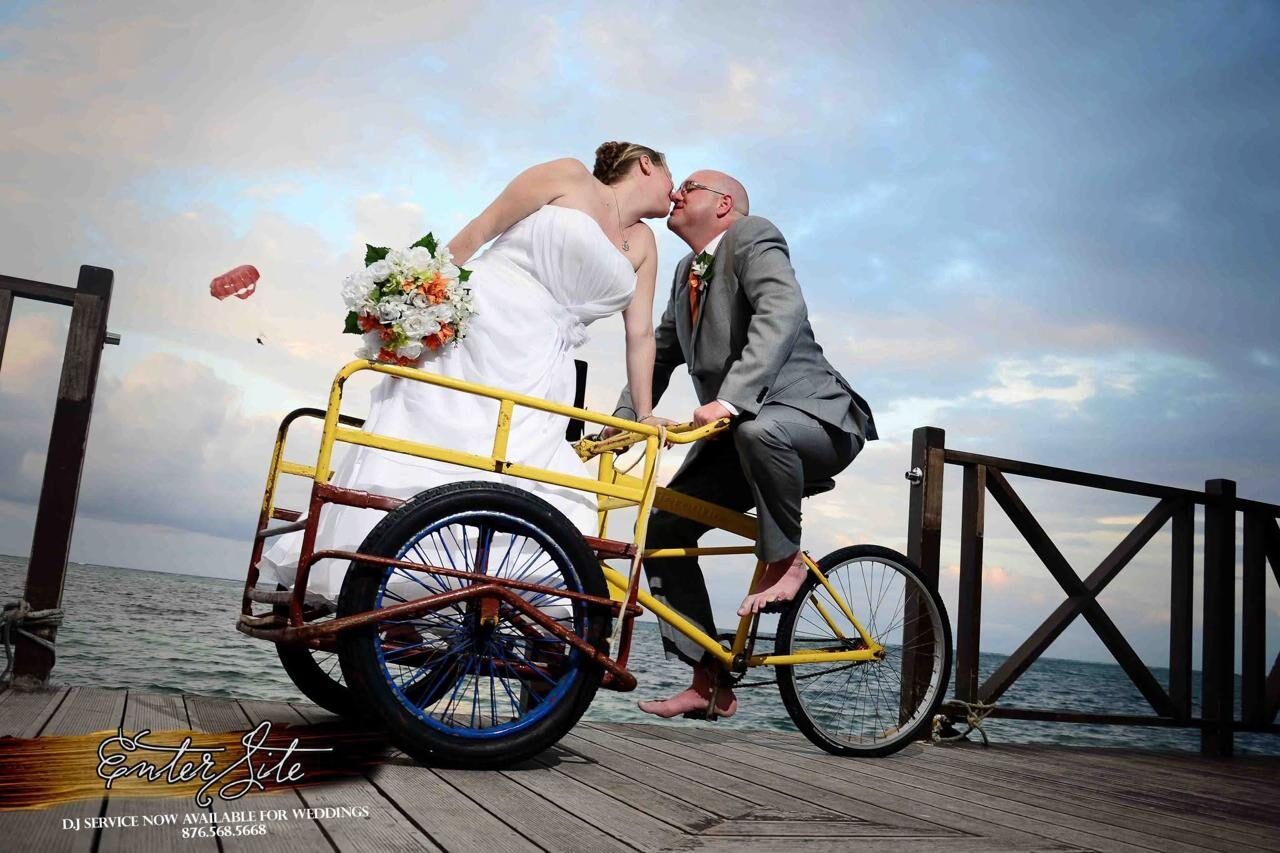
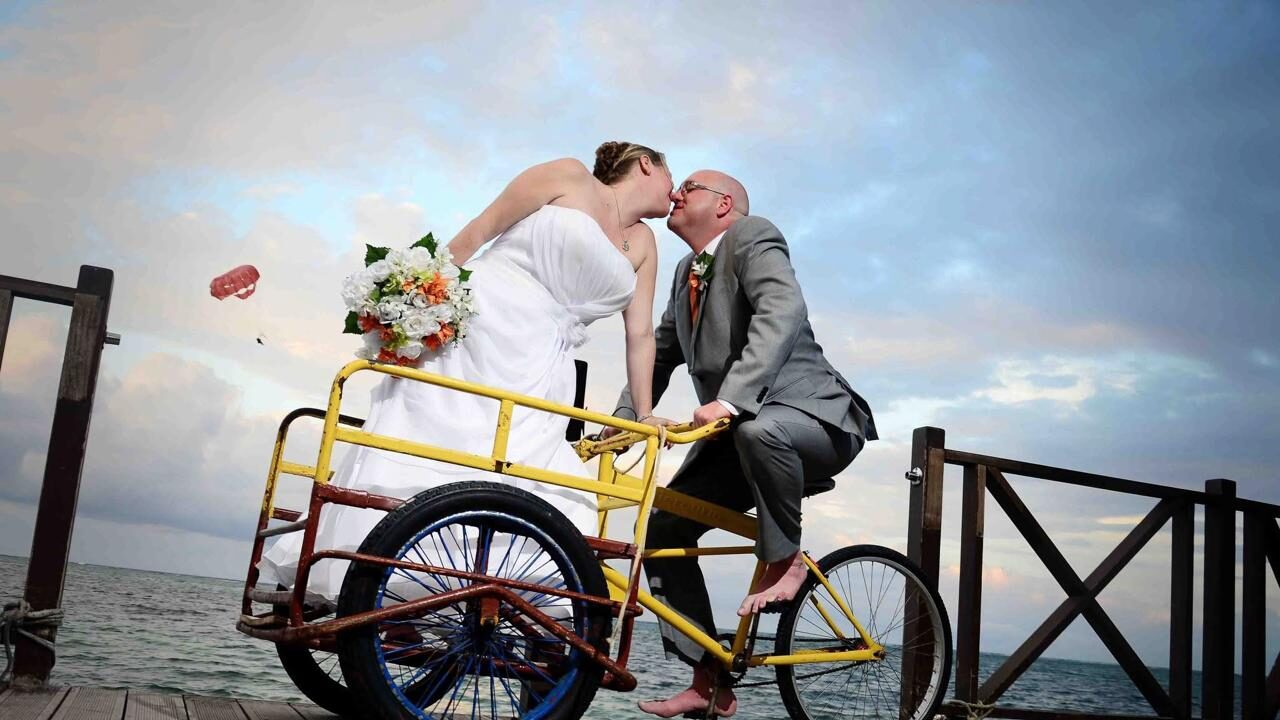
Add the last two photos, apply the photo review and halve gallery downloads
Photos: a black-and-white cane-field fashion shoot (Photo Sessions)
and a full-length three-piece-suit portrait (Portraits).

Photo review of all 86 gallery photos, each flag re-checked:
- wedding-16: crop to 16:9 to remove an EnterSite DJ advert that
  showed the old 568-5668 number
- couple-01 and session-07: correct the descriptions
- portrait-01 and portrait-05: move to Photo Sessions (kids' studio
  shoot and outdoor lifestyle session, not headshots or products)
Rows re-planned so every gallery still fills the full width.

Gallery tiles now start on the small copy and switch to the full
photo only when a tile needs more pixels, never back down. Letting
the browser re-pick from srcset each time rows were re-planned made
it restart in-flight downloads, so most photos downloaded twice.
A full scroll of the Galleries page drops from 7.4-9.1 MB to 4.3 MB.
The home page's featured grid keeps srcset (its layout is fixed).

Claude-Session: https://claude.ai/code/session_017cKbU4iBAnkGR7F8S12W2Q

diff --git a/candid-expression/js/content.js b/candid-expression/js/content.js
@@ -154,29 +154,31 @@ window.GALLERIES = {
     { src: "images/gallery/maternity-03.jpg", alt: "Expectant mother holding a tiny pair of white knitted baby booties" },
     { src: "images/gallery/family-07.jpg", alt: "Mother and her daughters in matching red Christmas pyjamas playing with a snowman ornament beside a flocked Christmas tree" },
     { src: "images/gallery/session-03.jpg", alt: "Woman in a pink pleated skirt standing on a rooftop rope swing at sunset", wide: true },
-    { src: "images/gallery/baby-03.jpg", alt: "Smiling baby in a woven basket on a white fur blanket in the studio" },
-    { src: "images/gallery/couple-01.jpg", alt: "Couple in gold and silver outfits sharing a kiss under a sunlit tree", wide: true },
     { src: "images/gallery/family-04.jpg", alt: "Mother in a flowing pink skirt with her two sons on a pink tree swing" },
+    { src: "images/gallery/baby-03.jpg", alt: "Smiling baby in a woven basket on a white fur blanket in the studio" },
+    { src: "images/gallery/couple-01.jpg", alt: "Couple sharing a kiss under a sunlit tree, him in a black satin outfit with a gold-trimmed sash, her in a silver striped top and lilac tulle skirt", wide: true },
     { src: "images/gallery/session-01.jpg", alt: "Woman in a flowing African-print halter dress and head wrap in the studio" },
     { src: "images/gallery/family-01.jpg", alt: "Family of five dressed in white on the beach" },
     { src: "images/gallery/baby-02.jpg", alt: "Close-up of a wide-eyed baby in a white headband", wide: true },
     { src: "images/gallery/session-04.jpg", alt: "Toddler dressed as a little builder in a yellow safety vest, holding a hard hat and a toy screwdriver" },
     { src: "images/gallery/session-02.jpg", alt: "Toddler in a red Christmas outfit on a leather sofa holding a mini Christmas tree" },
     { src: "images/gallery/family-02.jpg", alt: "Smiling family in white with straw hats by the sea" },
-    { src: "images/hero.jpg", alt: "Outdoor baby session with a woven basket" },
     { src: "images/gallery/family-06.jpg", alt: "Mother with her three children in red and plaid at an outdoor Christmas setup with Merry and Bright pillows", wide: true },
+    { src: "images/hero.jpg", alt: "Outdoor baby session with a woven basket" },
     { src: "images/gallery/session-05.jpg", alt: "Woman in a gold brocade corset and pleated skirt smiling as she leans on a wooden pergola post" },
-    { src: "images/gallery/session-06.jpg", alt: "Smiling woman with long curls and pink hair clips leaning on a white picket fence" }
+    { src: "images/gallery/session-07.jpg", alt: "Black and white fashion portrait of a woman in striped high-waisted trousers and sunglasses holding an umbrella, astride a vintage bicycle in a cut cane field", wide: true },
+    { src: "images/gallery/session-06.jpg", alt: "Smiling woman with long curls and pink hair clips leaning on a white picket fence" },
+    { src: "images/gallery/portrait-01.jpg", alt: "Girl in a red lace dress wearing a crown of butterflies in the studio" },
+    { src: "images/gallery/portrait-05.jpg", alt: "Smiling young woman with twists and flower hair clips resting her chin on her hands outdoors" }
   ],
   portraits: [
     { src: "images/gallery/portrait-02.jpg", alt: "Professional headshot of a woman in a navy blazer with her chin resting on her hand" },
     { src: "images/gallery/school-01.jpg", alt: "Sixth form graduation portrait holding a diploma tube against a blue backdrop" },
     { src: "images/gallery/product-01.jpg", alt: "Product photo of a pearl necklace with crystal rondelles and a gold toggle clasp laid flat on black velvet", wide: true },
-    { src: "images/gallery/portrait-01.jpg", alt: "Girl in a red lace dress wearing a crown of butterflies in the studio" },
     { src: "images/gallery/portrait-04.jpg", alt: "Professional headshot of a smiling man in a navy suit and orange tie against a white background" },
     { src: "images/gallery/portrait-03.jpg", alt: "Musician in a plum suit and tinted glasses singing and playing an acoustic guitar outdoors", wide: true },
     { src: "images/gallery/product-02.jpg", alt: "Product photo of a multi-strand pearl necklace displayed on a clear acrylic bust against black" },
-    { src: "images/gallery/portrait-05.jpg", alt: "Smiling young woman with twists and flower hair clips resting her chin on her hands outdoors" },
+    { src: "images/gallery/portrait-06.jpg", alt: "Smiling man in glasses and a navy check three-piece suit with an orange tie against a white backdrop" },
     { src: "images/gallery/product-03.jpg", alt: "Product photo of drop earrings with orange and fuchsia crystals on black velvet", wide: true }
   ],
   aerial: [

diff --git a/candid-expression/js/main.js b/candid-expression/js/main.js
@@ -412,23 +412,30 @@
   window.CE_CATEGORIES = CATEGORIES;
 
   /* Every gallery photo has a small copy (about 640px) with the same file name in
-     images/stream/. Tiles offer both and the browser picks what the tile needs; the
-     lightbox always opens the full photo. */
+     images/stream/. Featured tiles offer both and the browser picks; gallery tiles start
+     on the small copy and justifyAll() swaps in the full photo only when a tile is
+     bigger than that. The lightbox always opens the full photo. */
   function thumbOf(src) {
     var m = /^images\/(?:gallery\/)?([\w.-]+\.jpe?g)$/i.exec(String(src));
     return m ? "images/stream/" + m[1] : "";
   }
+  function thumbWidth(a) { return Math.round(a >= 1 ? 640 : 640 * a); }
   function srcsetFor(full, thumb, a) {
-    return thumb + " " + Math.round(a >= 1 ? 640 : 640 * a) + "w, " + full + " " + Math.round(a >= 1 ? 1600 : 1600 * a) + "w";
+    return thumb + " " + thumbWidth(a) + "w, " + full + " " + Math.round(a >= 1 ? 1600 : 1600 * a) + "w";
   }
   function photoTile(p, group, extraClass) {
     var cls = extraClass || "", thumb = thumbOf(p.src), a = p.wide ? 1.5 : 0.67;
-    var sizes = group === "featured"
-      ? (cls.indexOf("is-wide") > -1 ? "(max-width: 759px) 100vw, 50vw" : "(max-width: 759px) 50vw, 25vw")
-      : "(max-width: 559px) 60vw, 30vw";
+    var featured = group === "featured";
+    var sizes = cls.indexOf("is-wide") > -1 ? "(max-width: 759px) 100vw, 50vw" : "(max-width: 759px) 50vw, 25vw";
+    /* Gallery rows are re-planned as photos load; letting the browser re-pick from a
+       srcset each time made it restart downloads, so gallery tiles pick the file in
+       justifyAll() instead. */
+    var source = thumb
+      ? (featured ? ' src="' + esc(p.src) + '" srcset="' + esc(srcsetFor(p.src, thumb, a)) + '" sizes="' + sizes + '"' : ' src="' + esc(thumb) + '"') + ' data-thumb="' + esc(thumb) + '"'
+      : ' src="' + esc(p.src) + '"';
     return (
       '<button type="button" class="photo-tile ' + cls + '" data-full="' + esc(p.src) + '" data-group="' + group + '" data-alt="' + esc(p.alt || "") + '">' +
-      '<img src="' + esc(p.src) + '"' + (thumb ? ' data-thumb="' + esc(thumb) + '" srcset="' + esc(srcsetFor(p.src, thumb, a)) + '" sizes="' + sizes + '"' : "") +
+      '<img' + source +
       ' alt="' + esc(p.alt || "") + '"' +
       (p.pos ? ' style="object-position:' + String(p.pos).replace(/[^0-9a-z% .-]/gi, "") + '"' : "") + ' loading="lazy" decoding="async">' +
       (p.category ? '<span class="photo-tile__cap">' + esc(p.category) + "</span>" : "") +
@@ -576,11 +583,10 @@
           var a = ar(t), img = t.querySelector("img"), th = img && img.getAttribute("data-thumb");
           t.style.setProperty("--ar", a);
           t.style.width = r.last ? Math.floor(a * r.h) + "px" : "";
-          if (th && img.hasAttribute("srcset")) {
-            /* Setting these makes the browser re-pick the file, so only when they change. */
-            var sz = Math.ceil(a * r.h) + "px", ss = srcsetFor(t.getAttribute("data-full"), th, a);
-            if (img.getAttribute("sizes") !== sz) img.setAttribute("sizes", sz);
-            if (img.getAttribute("srcset") !== ss) img.setAttribute("srcset", ss);
+          /* Use the full photo once the tile (in device pixels) is clearly bigger than the
+             small copy. Only ever step up, so a photo is never downloaded twice. */
+          if (th && img.getAttribute("src") === th && a * r.h * (window.devicePixelRatio || 1) > thumbWidth(a) * 1.1) {
+            img.setAttribute("src", t.getAttribute("data-full"));
           }
           if (d.children[ti] !== t) d.insertBefore(t, d.children[ti] || null);
         });
@@ -592,10 +598,14 @@
 
   /* If a small copy is missing, fall back to the full photo. */
   document.addEventListener("error", function (e) {
-    var img = e.target;
-    if (img && img.tagName === "IMG" && img.getAttribute("srcset") && img.closest(".photo-tile")) {
+    var img = e.target, tile = img && img.tagName === "IMG" && img.closest(".photo-tile");
+    if (!tile) return;
+    if (img.getAttribute("srcset")) {
       img.removeAttribute("srcset");
       img.removeAttribute("sizes");
+    } else if (img.getAttribute("data-thumb") && img.getAttribute("src") === img.getAttribute("data-thumb")) {
+      img.removeAttribute("data-thumb");
+      img.setAttribute("src", tile.getAttribute("data-full"));
     }
   }, true);
 
